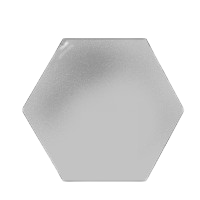
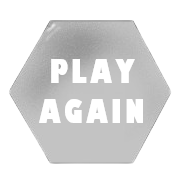
Added XP bar

diff --git a/SpaceShooter.java b/SpaceShooter.java
@@ -15,6 +15,10 @@ public class SpaceShooter extends World{
     
     public int wave = 0;
     
+    public int hs1 = 0;
+    public int hs2 = 0;
+    public int hs3 = 0;
+    
     Player player = new Player(1, 4, 1, 100, -90);
     
     Background bg1 = new Background();
@@ -28,10 +32,13 @@ public class SpaceShooter extends World{
     Button frame = new Button("frame.png", 400, 200);
     
     HP hpBar = new HP();
+    XP xpBar = new XP();
     Button shieldIcon = new Button("shield.png", 35, 40);
     Shield shieldBar = new Shield();
     
     Button gameover = new Button("gameover.png", 400, 400);
+    Button homeButton = new Button("home_button.png", 180, 180);
+    Button restartButton = new Button("playagain_button.png", 180, 180);
     
     Button startButton = new Button("start_button.png", 180, 160);
     Button ruleButton = new Button("rule_button.png", 184, 164);
@@ -41,7 +48,7 @@ public class SpaceShooter extends World{
         super(400, 800, 1, false);
         
         displayScore = new Text("Score: ", score, 30);
-        displayLevel = new Text("XP", 30);
+        displayLevel = new Text("Lvl ", XP.level, 24);
         
         addObject(bg1, 200, -390);
         addObject(bg2, 200, 400);
@@ -56,6 +63,8 @@ public class SpaceShooter extends World{
         checkStartPressed();
         checkRulesPressed();
         checkBackPressed();
+        checkHomePressed();
+        checkRestartPressed();
         
         if(gameActive){
             gameLoop();
@@ -70,8 +79,9 @@ public class SpaceShooter extends World{
             
             addObject(player, 200, 700);
             addObject(displayScore, 100, 690);
-            addObject(displayLevel, 70, 730);
+            addObject(displayLevel, 76, 730);
             addObject(hpBar, 300, 690);
+            addObject(xpBar, 90, 690);
             addObject(shieldIcon, 250, 730);
             addObject(shieldBar, 240, 730);
             
@@ -95,11 +105,50 @@ public class SpaceShooter extends World{
             removeObject(rules);
             removeObject(backButton);
             
-            addObject(frame, 200, 700);
             addObject(title, 200, 250);
             addObject(startButton, 110, 550);
             addObject(ruleButton, 300, 550);
         }
+    }
+    
+    public void checkHomePressed(){
+        if(Greenfoot.mouseClicked(homeButton)){
+            removeObject(gameover);
+            removeObject(homeButton);
+            removeObject(restartButton);
+            removeObject(displayScore);
+            removeObject(displayLevel);
+            removeObject(hpBar);
+            removeObject(shieldIcon);
+            removeObject(shieldBar);
+            
+            addObject(title, 200, 250);
+            addObject(startButton, 110, 550);
+            addObject(ruleButton, 300, 550);
+        } 
+    }
+    
+    public void checkRestartPressed(){
+        if(Greenfoot.mouseClicked(restartButton)){
+            removeObject(gameover);
+            removeObject(homeButton);
+            removeObject(restartButton);
+            
+            score = 0;
+            shield = 5;
+            lives = 3;
+            speedMod = 0;
+            
+            XP.currentXP = 0;
+            XP.levelXP = 2;
+            XP.currentXP = 0;
+            
+            addObject(player, 200, 700);
+            addObject(hpBar, 300, 690);
+            
+            gameActive = true;    
+        }
+        
     }
     
     public void initGame(){               
@@ -112,12 +161,17 @@ public class SpaceShooter extends World{
         Stage1Gauge = -500;
         Stage2Gauge = -2000;
         
+        XP.currentXP = 0;
+        XP.levelXP = 2;
+        XP.level = 0;
+        
         gameActive = true;
     }
     
     public void gameLoop(){
         if(lives < 1){
             gameOver();
+            removeObject(player);
         }
         else{
             increaseGauge();
@@ -125,6 +179,7 @@ public class SpaceShooter extends World{
             
             // Constantly update the score and shield display
             displayScore.setValue(score);
+            displayLevel.setValue(XP.level);
                     
             if(((score % 10) == 0) && (speedMod < 10)){
                 speedMod = score/10;
@@ -135,6 +190,15 @@ public class SpaceShooter extends World{
     
     public void gameOver(){
         addObject(gameover, 200, 200);
+        addObject(homeButton, 100, 440);
+        addObject(restartButton, 300, 440);
+        
+        basicGauge = 0;
+        Stage1Gauge = -500;
+        Stage2Gauge = -2000;
+        wave = 0;
+        
+        gameActive = false;
     }
     
     public void modifyScore(int points){    

diff --git a/Meteor.java b/Meteor.java
@@ -58,11 +58,16 @@ public class Meteor extends SmoothMover{
             world.removeObject(this);
         }
         
+        else if(!world.gameActive){
+            world.removeObject(this);
+        }
+        
         else if(isTouching(Bullet.class)){
             health--;
             if(health == 0){
                 applyPowerup();
                 world.score += points;
+                XP.currentXP += points;
                 
                 explosionTimer.mark();
                 isExploding = true;
@@ -141,7 +146,12 @@ public class Meteor extends SmoothMover{
                 break;
                 
             case 4:
-                world.modifyShield(5);
+                if(world.shield < 6){
+                    world.modifyShield(5);
+                }
+                else{
+                    world.shield = 10;
+                }
                 Player.damage++;
                 if(Player.atkSpd > 45){
                     Player.atkSpd -= 5;

diff --git a/XP.java b/XP.java
@@ -1,0 +1,36 @@
+import greenfoot.*;  
+
+public class XP extends Actor{
+    public static int level = 0;
+    public static int levelXP = 2;
+    public static int currentXP = 0;
+    
+    GreenfootImage[] xpBar = new GreenfootImage[10];        
+    
+    public XP(){
+        for(int i = 0; i < 10; i++) {    
+            xpBar[i] = new GreenfootImage("images/xp_bar/xp" + i +".png");
+        }
+    }
+    
+    public void act(){
+        SpaceShooter world = (SpaceShooter) getWorld();
+        
+        if(levelXP <= currentXP){
+            level++;
+            levelXP = levelXP * 2;
+            currentXP = 0;
+        }
+        double percentEquiv = (double) currentXP / levelXP;
+        int roundedEquiv = (int) (percentEquiv * 10);
+        
+        setImage(xpBar[roundedEquiv]);
+        
+        for(int i = 0; i < 10; i++){
+            if(roundedEquiv == i){
+                setLocation(105 + (5 * i), 730);
+            }
+        }        
+
+    }
+}
